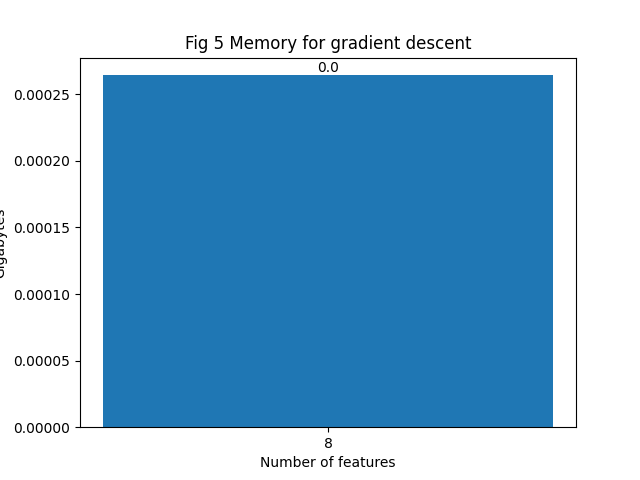
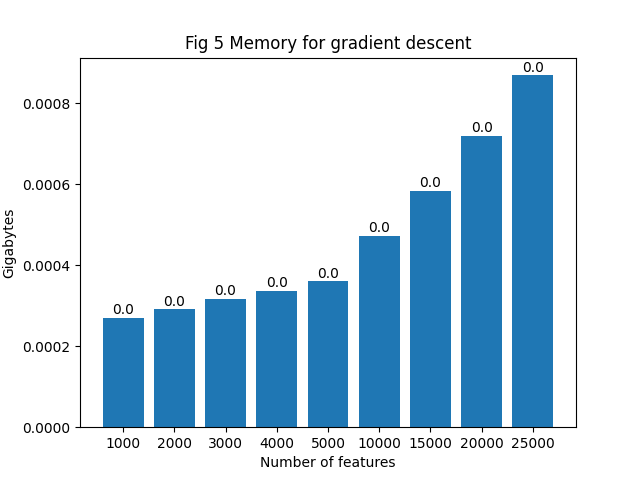
Updated readme and programme

diff --git a/closed_form_vs_gradient_descent/test_funcs.py b/closed_form_vs_gradient_descent/test_funcs.py
@@ -101,7 +101,7 @@ class TestClass:
     def test_measure_time_for_weights(self, generate_random_data):
         X, y, _ = generate_random_data
 
-        def create_toy_weights(X, y):
+        def create_toy_weights(X, y):   # X not used as makes calc harder
             toy_weights = y * 2
             return toy_weights 
 
@@ -176,6 +176,6 @@ class TestClass:
         assert isinstance(results_cf, list)
         for i in range(len(results_cf)):
             assert isinstance(results_cf[i], tuple)
-            assert len(results_cf[i]) == 3      # Each index should have tuple for time, memory, loss
+            assert len(results_cf[i]) == 3      # Each index should have a tuple for time, memory, loss
             assert isinstance(results_gd[i], tuple) 
             assert len(results_gd[i]) == 3

diff --git a/closed_form_vs_gradient_descent/utils.py b/closed_form_vs_gradient_descent/utils.py
@@ -20,8 +20,7 @@ from tqdm import tqdm
 TRAIN_TEST_RATIO = 0.8
 MAX_EPOCHS = 100
 BASE_LEARNING_RATE = 0.01
-# MAX_PREDICTORS = 10000
-MAX_PREDICTORS = 5000
+MAX_PREDICTORS = 25000
 
 
 def add_bias(X):
@@ -138,11 +137,10 @@ def gradient_descent(X, y):
     w = np.zeros(X.shape[1])     
     n = X.shape[0]
 
-    for i in range(MAX_EPOCHS):
+    for i in range(MAX_EPOCHS):     # Left for debugging
         y_hat_curr = forward_pass(X, w)         # Prevents matrix multiplication        
         gradient =  (X.T @ (y_hat_curr  - y)) / n
 
-        # learning_rate = BASE_LEARNING_RATE / X.shape[1] # Experimented to see if helps with overflow; not on its own
         w -= (BASE_LEARNING_RATE * gradient)
     
     return w 

diff --git a/closed_form_vs_gradient_descent/comparison.py b/closed_form_vs_gradient_descent/comparison.py
@@ -15,9 +15,7 @@ from utils import (
 )
 
 
-# NUM_PREDICTORS_TO_USE = [100, 500, 1000, 5000, 10000, 50000, 100000]      # Dies at 50_000
-NUM_PREDICTORS_TO_USE = [8]
-# NUM_PREDICTORS_TO_USE = [1000, 2000, 3000, 4000, 5000]
+NUM_PREDICTORS_TO_USE = [1000, 2000, 3000, 4000, 5000, 10000, 15000, 20000, 25000]
 
 
 def main():

diff --git a/closed_form_vs_gradient_descent/README.md b/closed_form_vs_gradient_descent/README.md
@@ -6,21 +6,39 @@ I compared two different optimisation algorithms for linear regression.
 I was interested in how they performed against each other and when one might be more feasible then the other.
 
 # Background
-Gradient descent is the dominant optimisation algorithm in practice. The closed-form algorithm is an alternative, which textbooks tell us doesn't scale well and isn't available for non-linear problems such as logistic regression and neural networks. I have added technical details on these issues, such as derivation of gradients, [here](./linear_regression.pdf). One point, for example, is that the closed-form algorithm requires O(D**2) space with D being the number of features, whereas gradient descent only needs O(D), meaning the latter scales better. One reason we would want to use closed-form is because it gives us for sure the best weights, whereas theoretically we could stop gradient descent too soon and end up with less-than-optimal weights.
+Gradient descent is the dominant optimisation algorithm in practice. The closed-form algorithm is an alternative, which textbooks tell us doesn't scale well and isn't available for non-linear problems such as logistic regression and neural networks. I have added technical details on these issues, such as derivation of gradients, [here](./linear_regression.pdf). One point, for example, is that the closed-form algorithm requires O(D**2) space with D being the number of features, whereas gradient descent only needs O(D), meaning the latter scales better. One reason we would want to use closed-form is because it gives us for sure the best weights, whereas theoretically we could stop gradient descent too soon and end up with suboptimal weights.
 
 # Data
 I used the California Housing dataset,  which contains about 20k samples to predict house prices based on 8 variables such as median income. More details can be found [here](https://scikit-learn.org/stable/datasets/real_world.html#california-housing-dataset).
 
-# Lessons
-1. Gradient descent generally achieves better validation losses, though with maybe 500-1000 epochs of weight updates, Gradient descent might get there. I just did a flat implementation where there were 100 epochs for all simulated scenarios.
 
+# TL;DR
+A rule of thumb is that closed form can be comfortably used with most data sets up to 10,000 features.
+
+# Lessons
+1. As expected, the closed-form algorithm consistently achieves better validation losses on  actual data, and it may take gradient descent probably 500-1000 epochs to essentially get the same result. When we use the original eight variables in the data set, the validation loss for closed-form is 0.25. For gradient descent with 100, 250, and 500 epochs, the losses are 1.11, 0.43, and 0.32 respectively. An additional point about the closed-form solution is that it becomes numerically unstable large number of features, given random data, and would require handling. See Fig 3 in the ./img folder.
+
+2. Closed-form takes more time than gradient descent. Closed-form needs three minutes with 20,000 features but needs seven with 25,000. Gradient descent, however, only requires one minute. At 40,000 features the closed-form solution takes more than an hour, and I killed it before completion. 
+
+![Fig 1 Time closed-form](./img/time_closed_form.png)
+
+3. Closed-form uses a lot more more memory than gradient descent. For example, going from 20,000 to 25,000 features almost doubles memory requirements to 9GB for storing weight calculations alone.  Note: I do suspect I did not use tracemalloc right, so measurements of memory are likely flawed since they don't follow the theoretical expectation. At the same time, NumPy makes resource intensive operations faster due to its implementation, and this also contributes to data deviating from theoretical expectation. But although th enumbers are not precisely right, they are directional correct: closed-form can consume substantial memory. I am using a Macbook Pro with 16GB of memory (unclear to me how Apple allocates VRAM given this memory), and using 50,000 features plus the bias term crashes the programme. Gradient descent, however, is still feasible with that many features.
+
+![Fig 2 Memory closed-form](./img/time_closed_form.png)
 
 # Meta-lessons
-1. **Data is hard**. The closed-form algorithm is supposed to break down, for example, when there are too many features in the dataset, but finding such a dataset is hard. Datasets aren't that well annotated often, and many contain few features. So I worked with suboptimal data, and augmented it with randomly initiated, synthetic features. A better dataset would probably be one in the language domain or genetic data. Finding semi-suitable data was a much longer time-sink than I thought.
-2. **Formulas  oversimplify**. Textbooks will tell you what the formula for the forward pass might be, and you feel clever when you implement it. What makes you feel dumb, on the other hand is, when your losses look weird and you spend hours and hours looking it weights and their updates. I learned that one solution to my problems was data normalisation. Textbooks rarely tell you that correct implementation of a formula does not equal a functioning algorithm. A successful ML programme requires a lot more debugging, archaeology, and a paranoia to check your work than I thought. I guess my expectations got a weight update!
-3. **Believe the smoking gun**. I think a lot of engineering success is about psychology. We want our algorithms to work, so there is confirmation bias. I noticed initially that my algorithm seemed to work in many places, and I had to force myself to look into those because it was just so seductive to take the chips that were already on the table. But my losses seemed weird, there was an explosion of the loss when their was one epoch of learning bu then essentially massive learning followed by immediate stagnation in the second epoch. This was due to several reasons such as overflow and the variety of scales on which the Housing data was measured on.
+1. **Data is hard**. The closed-form algorithm is supposed to break down, for example, when there are too many features in the dataset, but finding such a dataset is hard. Datasets aren't that well-annotated often, and many contain few features. So I worked with suboptimal data, and augmented it with randomly initiated, synthetic features. A better dataset would have probably been in the language domain or genetic data. Finding semi-suitable took much longer than I thought.   
 
+2. **Formulas  oversimplify**. Textbooks will tell you what the formula for the forward pass might be, and you feel clever when you implement it. What makes you feel dumb, on the other hand is, when your losses look weird and you spend hours and hours looking at weights and their updates. I learned that one solution to my problems was data normalisation. Textbooks rarely tell you that correct implementation of a formula does not equal a functioning algorithm. A successful ML programme requires a lot more debugging, archaeology, and paranoia than I thought. I guess my expectations got a weight update!
 
+3. **Believe the smoking gun**. I think a lot of engineering success is about psychology. For example, we want our algorithms to work, so there is confirmation bias. I noticed initially that my algorithm seemed to work in many places, but there was some weird behaviour elsewhere, e.g. gradient descent losses exploded after one epoch but massively dropped in the second epoch (hint: overflow and discrepant measurement scales of variables). I had to force myself to look into those because it was just so seductive to take the chips that were already on the table.
 
-
+# Repository structure
+├── requirements.txt        # Libraries for installation 
+├── comparison.py           # Main experiment runner
+├── utils.py                # Algorithm implementations
+├── linear_regression.pdf   # Mathematical derivations
+├── test_funcs.py           # Unit tests
+├── imgs/                   # Generated plots
+└── README.md
 
